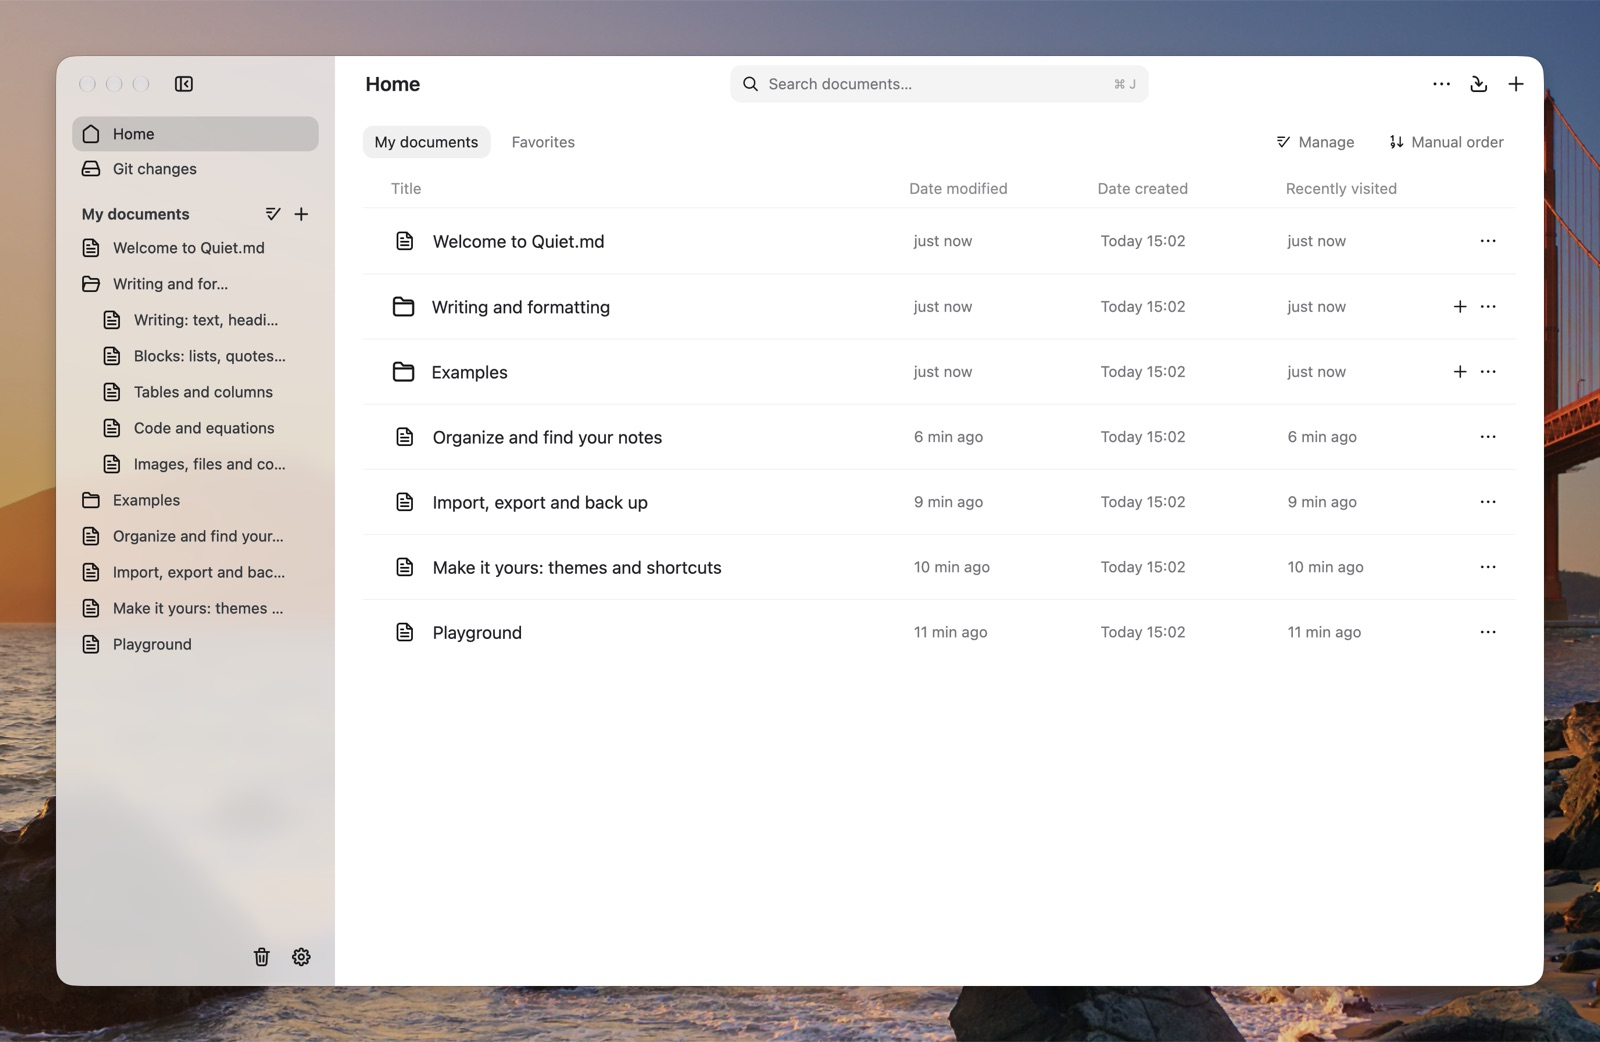
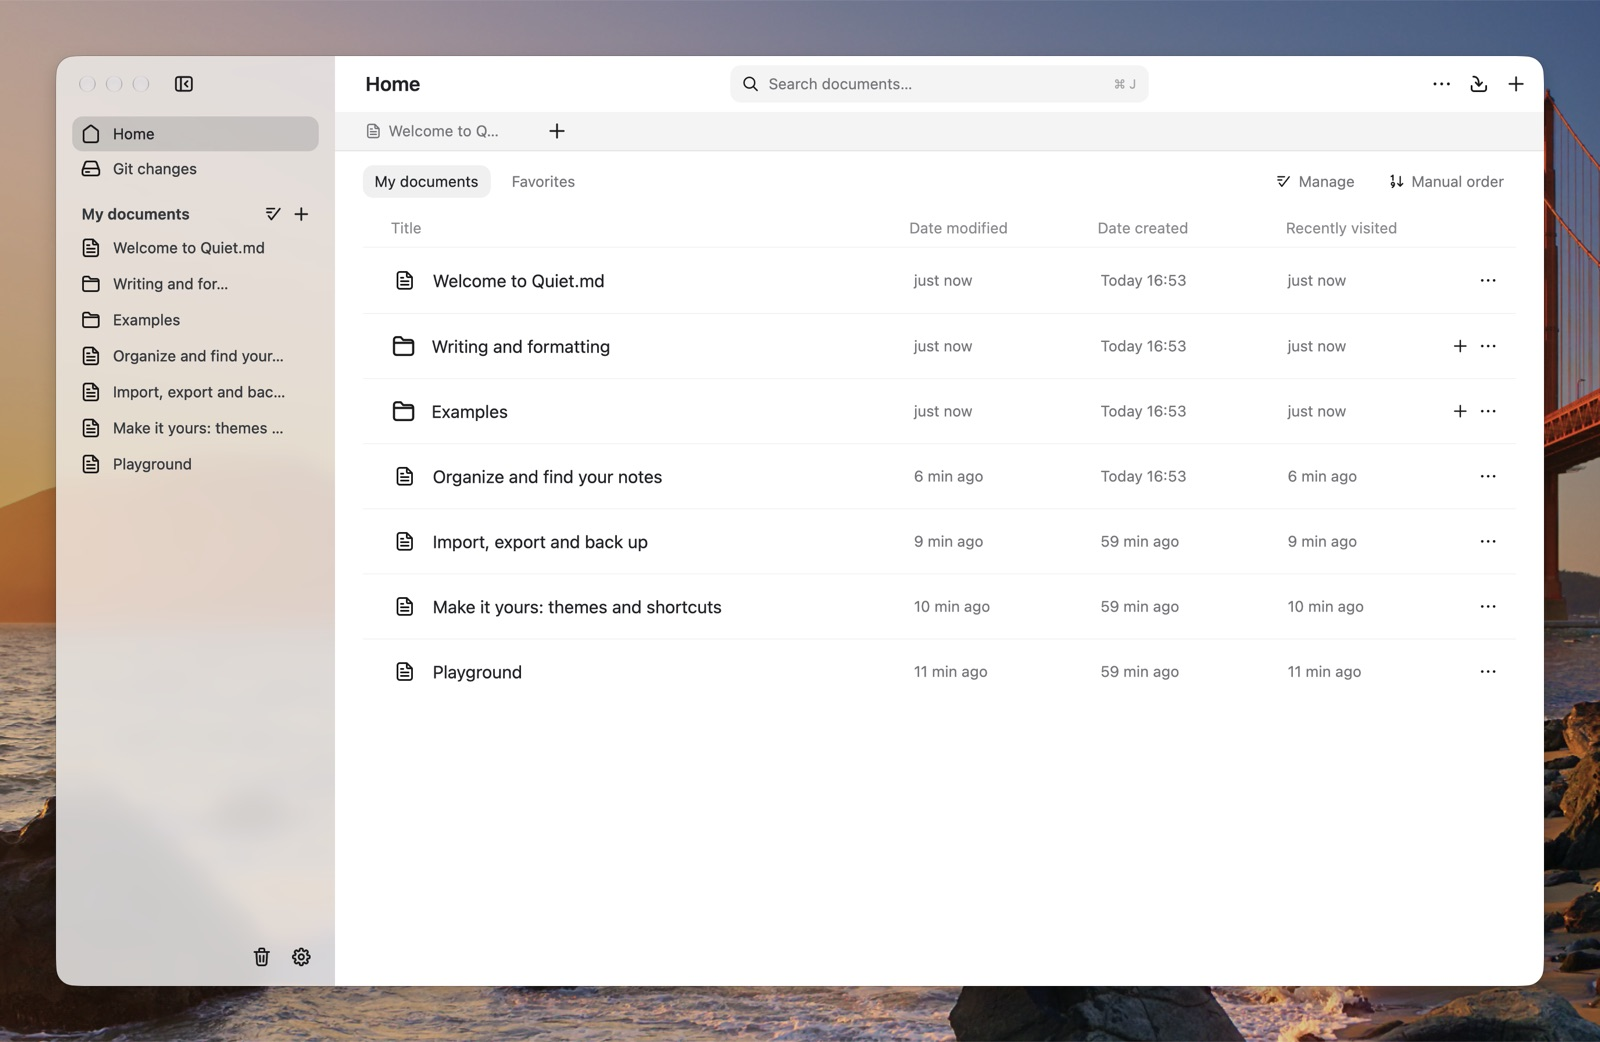
Show tabs on every page and open the latest document at startup

diff --git a/src/tabs.rs b/src/tabs.rs
@@ -34,10 +34,6 @@ pub(crate) struct Tabs {
 }
 
 impl Tabs {
-    pub(crate) fn show_bar(&self) -> bool {
-        self.items.len() >= 2 || self.items.first().is_some_and(|tab| tab.document.is_none())
-    }
-
     pub(crate) fn get_mut(&mut self, id: &str) -> Option<&mut Tab> {
         self.items.iter_mut().find(|tab| tab.document.as_deref() == Some(id))
     }
@@ -251,33 +247,41 @@ impl Workspace {
             .into_any_element()
     }
 
+    pub(crate) fn shows_document_tabs(&self) -> bool {
+        !self.quick_note && (self.tab_page_visible() || matches!(self.view, View::Home | View::Folder))
+    }
+
     pub(crate) fn render_document_tabs(&self, window: &Window, cx: &mut Context<Self>) -> Option<AnyElement> {
+        if !self.shows_document_tabs() { return None }
         let tabs = &self.tabs.items;
-        if !self.tabs.show_bar() { return None }
         let width = f32::from(window.viewport_size().width) - if self.sidebar_open { self.sidebar_w(window) } else { 0. };
         let selected = self.tabs.selected_index().unwrap_or(0);
         let visible = self.tab_page_visible();
-        let available = width - 36. - 32.;
-        let overflow = tabs.len() as f32 * 124. > available;
-        let count = if overflow { (((available - 30.) / 124.) as usize).max(1) } else { tabs.len() };
+        let available = width - 36. - 30.;
+        let overflow = tabs.len() as f32 * 120. > available;
+        let available = available - if overflow { 30. } else { 0. };
+        let count = if overflow { (available / 120.) as usize } else { tabs.len() };
+        let count = count.max(1);
         let start = (selected + 1).saturating_sub(count);
-        let tab_width = ((available - if overflow { 30. } else { 0. }) / count as f32 - 4.).clamp(84., 160.);
+        let tab_width = (available / count as f32 - 4.).clamp(84., 156.);
         let bounds = self.tabs.overflow_bounds.clone();
         if !overflow { bounds.set(None); }
-        let row = div().id("document-tabs").flex_none().h(px(BAR_H)).px(px(18.)).pb(px(5.)).flex().items_center().gap(px(4.))
+        let row = div().id("document-tabs").flex_none().h(px(BAR_H)).px(px(18.)).flex().items_center().gap(px(4.))
+            .bg(Theme::fill_hover()).border_b_1().border_color(Theme::line_divider())
             .children(tabs.iter().enumerate().skip(start).take(count).map(|(i, tab)| {
                 let (title, glyph) = self.tab_label(tab, cx);
                 let key = tab.key;
                 let group = SharedString::from(format!("document-tab-{key}"));
                 let active = visible && i == selected;
-                div().id(group.clone()).group(group.clone()).no_drag().h(px(28.)).max_w(px(tab_width)).flex().min_w_0().items_center().rounded(px(6.))
-                    .pl(px(8.)).pr(px(3.)).gap(px(5.)).cursor_pointer()
-                    .when(active, |d| d.bg(Theme::sidebar_selected()).text_color(Theme::text()))
-                    .when(!active, |d| d.hover(|s| s.bg(Theme::fill_hover())).text_color(Theme::text_caption()))
+                div().id(group.clone()).group(group.clone()).no_drag().h(px(26.)).w(px(tab_width)).flex_none().flex().items_center().rounded(px(5.))
+                    .pl(px(8.)).pr(px(3.)).gap(px(6.)).cursor_pointer()
+                    .when(active, |d| d.bg(Theme::bg_body()).border_1().border_color(Theme::line_border())
+                        .font_weight(FontWeight::MEDIUM).text_color(Theme::text()))
+                    .when(!active, |d| d.hover(|s| s.bg(Theme::fill_hover_strong())).text_color(Theme::text_caption()))
                     .tip(&title, None)
                     .child(icon(glyph, 14., if active { Theme::icon() } else { Theme::text_caption() }).flex_none())
-                    .child(div().min_w_0().overflow_hidden().whitespace_nowrap().text_ellipsis().text_size(px(13.)).child(ui_text(title)))
-                    .child(div().id("close").no_drag().flex_none().size(px(21.)).rounded(px(4.)).flex().items_center().justify_center()
+                    .child(div().flex_1().min_w_0().overflow_hidden().whitespace_nowrap().text_ellipsis().text_size(px(13.)).child(ui_text(title)))
+                    .child(div().id("close").no_drag().flex_none().size(px(20.)).rounded(px(4.)).flex().items_center().justify_center()
                         .hover(|s| s.bg(Theme::fill_hover_strong()))
                         .when(!active, |d| d.opacity(0.).group_hover(group, |s| s.opacity(1.)))
                         .tip(tr("关闭标签页", "Close tab"), None)
@@ -296,7 +300,7 @@ impl Workspace {
     }
 
     pub(crate) fn render_tab_overflow(&self, window: &Window, cx: &mut Context<Self>) -> Option<AnyElement> {
-        if !self.tabs.overflow || !(self.tab_page_visible() || matches!(self.view, View::Home | View::Folder)) { return None }
+        if !self.tabs.overflow || !self.shows_document_tabs() { return None }
         let bounds = self.tabs.overflow_bounds.clone();
         let position = bounds.get()?.bottom_right() + point(px(0.), px(4.));
         let group = SharedString::from("document-tabs-menu");
@@ -347,7 +351,8 @@ pub(crate) fn check_tabs(phase: &str, cx: &mut App) {
         assert!(entries.is_empty());
         main.update(cx, |w, _, _| {
             assert_eq!(w.view, View::NewTab);
-            assert!(w.tabs.selected_is_blank() && w.tabs.show_bar());
+            assert!(w.tabs.selected_is_blank() && w.shows_document_tabs());
+            assert_eq!(w.tabs.items.len(), 1);
             assert!(w.current.is_none() && w.editor.is_none() && !w.search_open);
         }).unwrap();
         eprintln!("tabs: {phase} checked");
@@ -377,6 +382,7 @@ pub(crate) fn check_tabs(phase: &str, cx: &mut App) {
         peer.update(cx, |w, window, cx| {
             assert!(w.flush(cx), "{}", w.save_error());
             assert!(w.tabs.items.is_empty());
+            assert!(!w.shows_document_tabs());
             window.remove_window();
         }).unwrap();
     }
@@ -384,6 +390,11 @@ pub(crate) fn check_tabs(phase: &str, cx: &mut App) {
         let current = w.current.clone();
         let count = w.tabs.items.len();
         match phase {
+            "startup" => {
+                assert_eq!(w.view, View::Doc);
+                assert_eq!(current.as_ref(), Some(a));
+                assert!(count == 1 && w.shows_document_tabs());
+            }
             "prepare" => {
                 w.entries = entries;
                 w.sort();
@@ -460,7 +471,7 @@ pub(crate) fn check_tabs(phase: &str, cx: &mut App) {
             "single" => {
                 assert_eq!(current.as_ref(), Some(a));
                 assert_eq!(count, 1);
-                assert!(!w.tabs.show_bar());
+                assert!(w.shows_document_tabs());
                 assert_eq!(w.editor.as_ref().unwrap().read(cx).core.doc.blocks[34].text.text, "modified while parked");
             }
             "recent" => {
@@ -470,7 +481,7 @@ pub(crate) fn check_tabs(phase: &str, cx: &mut App) {
             }
             "home" => {
                 assert_eq!(w.view, View::Home);
-                assert!(current.is_none() && count == 0);
+                assert!(current.is_none() && count == 0 && w.shows_document_tabs());
             }
             _ => panic!("unknown tabs check {phase}"),
         }

diff --git a/tools/harness/tabs.py b/tools/harness/tabs.py
@@ -28,6 +28,7 @@ preferences = json.dumps({
 script = work / "steps.txt"
 script.write_text("""resize 1080 700
 move 1040 650
+check-tabs startup
 check-tabs prepare
 wait 700
 key cmd-t
@@ -37,7 +38,7 @@ shot new-tab
 click 85 195
 check-tabs second
 shot two-tabs
-click 500 62
+click 631 65
 wait 300
 check-tabs plus
 key cmd-t
@@ -75,7 +76,7 @@ subprocess.run([sys.executable, str(here / "run.py"), str(script), str(source), 
                check=True, timeout=60, env=dict(os.environ, FDL_NOBLINK="1"))
 log = (run / "log").read_text()
 assert "panicked" not in log, log
-for phase in ["prepare", "blank", "second", "plus", "undo", "peer", "conflict-prepare", "conflict", "replace", "single", "recent", "home"]:
+for phase in ["startup", "prepare", "blank", "second", "plus", "undo", "peer", "conflict-prepare", "conflict", "replace", "single", "recent", "home"]:
     assert f"tabs: {phase} checked" in log, log
 
 empty = work / "empty"
@@ -83,7 +84,7 @@ empty = work / "empty"
 (empty / ".quiet/preferences.json").write_text(preferences)
 (empty / "quiet.json").write_text('{"version":2,"folders":[],"notes":[],"trash":[]}')
 empty_script = work / "empty-steps.txt"
-empty_script.write_text("wait 650\nkey cmd-t\ncheck-tabs empty\n")
+empty_script.write_text("wait 650\ncheck-tabs empty\nshot empty-tab\n")
 empty_run = work / "empty-run"
 subprocess.run([sys.executable, str(here / "run.py"), str(empty_script), str(empty), str(empty_run)],
                check=True, timeout=30, env=dict(os.environ, FDL_NOBLINK="1"))

diff --git a/src/app.rs b/src/app.rs
@@ -602,12 +602,14 @@ impl Workspace {
         ws.sort();
         ws.load_home();
         window.focus(&ws.focus);
-        // An empty library opens on 主页's empty state; only a quick note
-        // window starts a document of its own.
-        match document.or_else(|| (!quick).then(|| ws.entries.first().map(|e| e.id.clone())).flatten()) {
+        // A main window starts on the latest document or a blank tab.
+        let document = document.or_else(|| {
+            if quick { None } else { ws.entries.iter().find(|e| e.meta.folder.is_none()).map(|e| e.id.clone()) }
+        });
+        match document {
             Some(id) => ws.open(&id, window, cx),
             None if quick => ws.new_doc(window, cx),
-            None => ws.view = View::Home,
+            None => ws.new_tab(window, cx),
         }
         // Kept in the top bar (not just a toast): the user should notice.
         let warnings = ws.store.take_warnings();
@@ -1658,7 +1660,7 @@ impl Render for Workspace {
                 .flex()
                 .flex_col()
                 .child(self.top_bar(f32::from(window.viewport_size().width) - if self.sidebar_open { self.sidebar_w(window) } else { 0. }, cx))
-                .children(if self.trash_document { None } else { self.render_document_tabs(window, cx) })
+                .children(self.render_document_tabs(window, cx))
                 .children(self.render_history_banner(cx))
                 .children(self.render_trash_banner(cx))
                 .child(

diff --git a/src/history.rs b/src/history.rs
@@ -547,7 +547,7 @@ impl Workspace {
                 .child(div().text_size(px(11.)).text_color(Theme::text_caption())
                     .child(crate::settings::tr("设置 › 文档库可调份数", "Count in Settings"))));
         Some(
-            div().id("history-drawer").absolute().top(px(HEADER_H + if !self.trash_document && self.tabs.show_bar() { crate::tabs::BAR_H } else { 0. }))
+            div().id("history-drawer").absolute().top(px(HEADER_H + if self.shows_document_tabs() { crate::tabs::BAR_H } else { 0. }))
                 .right_0().bottom_0().w(px(DRAWER_W))
                 .flex().flex_col()
                 .bg(crate::theme::raised(Theme::bg_body()))

diff --git a/docs/ARCHITECTURE.md b/docs/ARCHITECTURE.md
@@ -49,7 +49,7 @@ main.rs ─ 窗口
 
 写入成功后 `Store::save_now` 还会用内存里的旧正文在 `history/<id>/` 存一份版本快照：5 分钟节流、每篇文档 1–30 份、全库 200 MiB 上限。快照写入失败只记警告，不影响正文保存。恢复某个版本时先强制给当前正文留一份快照，再走正常的 `save`。
 
-主窗口的标签页有独立的窗口内 ID。新建标签先显示最近编辑的文档，常规导航会在这个标签里打开所选文档。已打开的文档按文档 ID 去重。切换时先保存当前文档，后台标签保留 Core、阅读位置和磁盘正文基线。重新激活时重建编辑视图，正文仍匹配基线就沿用原 Core。若同一文档在兄弟窗口中打开，则沿用兄弟窗口的当前正文。兄弟窗口保存成功后也更新后台标签，切回去可以继续编辑最新版本。
+主窗口打开最近编辑的文档，没有文档时显示新建标签页。文档、主页、文件夹和新建标签页均显示标签栏。标签页有独立的窗口内 ID。新建标签先显示最近编辑的文档，常规导航会在这个标签里打开所选文档。已打开的文档按文档 ID 去重。切换时先保存当前文档，后台标签保留 Core、阅读位置和磁盘正文基线。重新激活时重建编辑视图，正文仍匹配基线就沿用原 Core。若同一文档在兄弟窗口中打开，则沿用兄弟窗口的当前正文。兄弟窗口保存成功后也更新后台标签，切回去可以继续编辑最新版本。
 
 保存内容与磁盘正文相同时，不替换正文，也不更新修改时间、索引和历史。共享清单 `quiet.json` 只在内容变化时原子替换。清单缺失、无法读取或校验失败时，文档库报告错误并停止写入。
 
